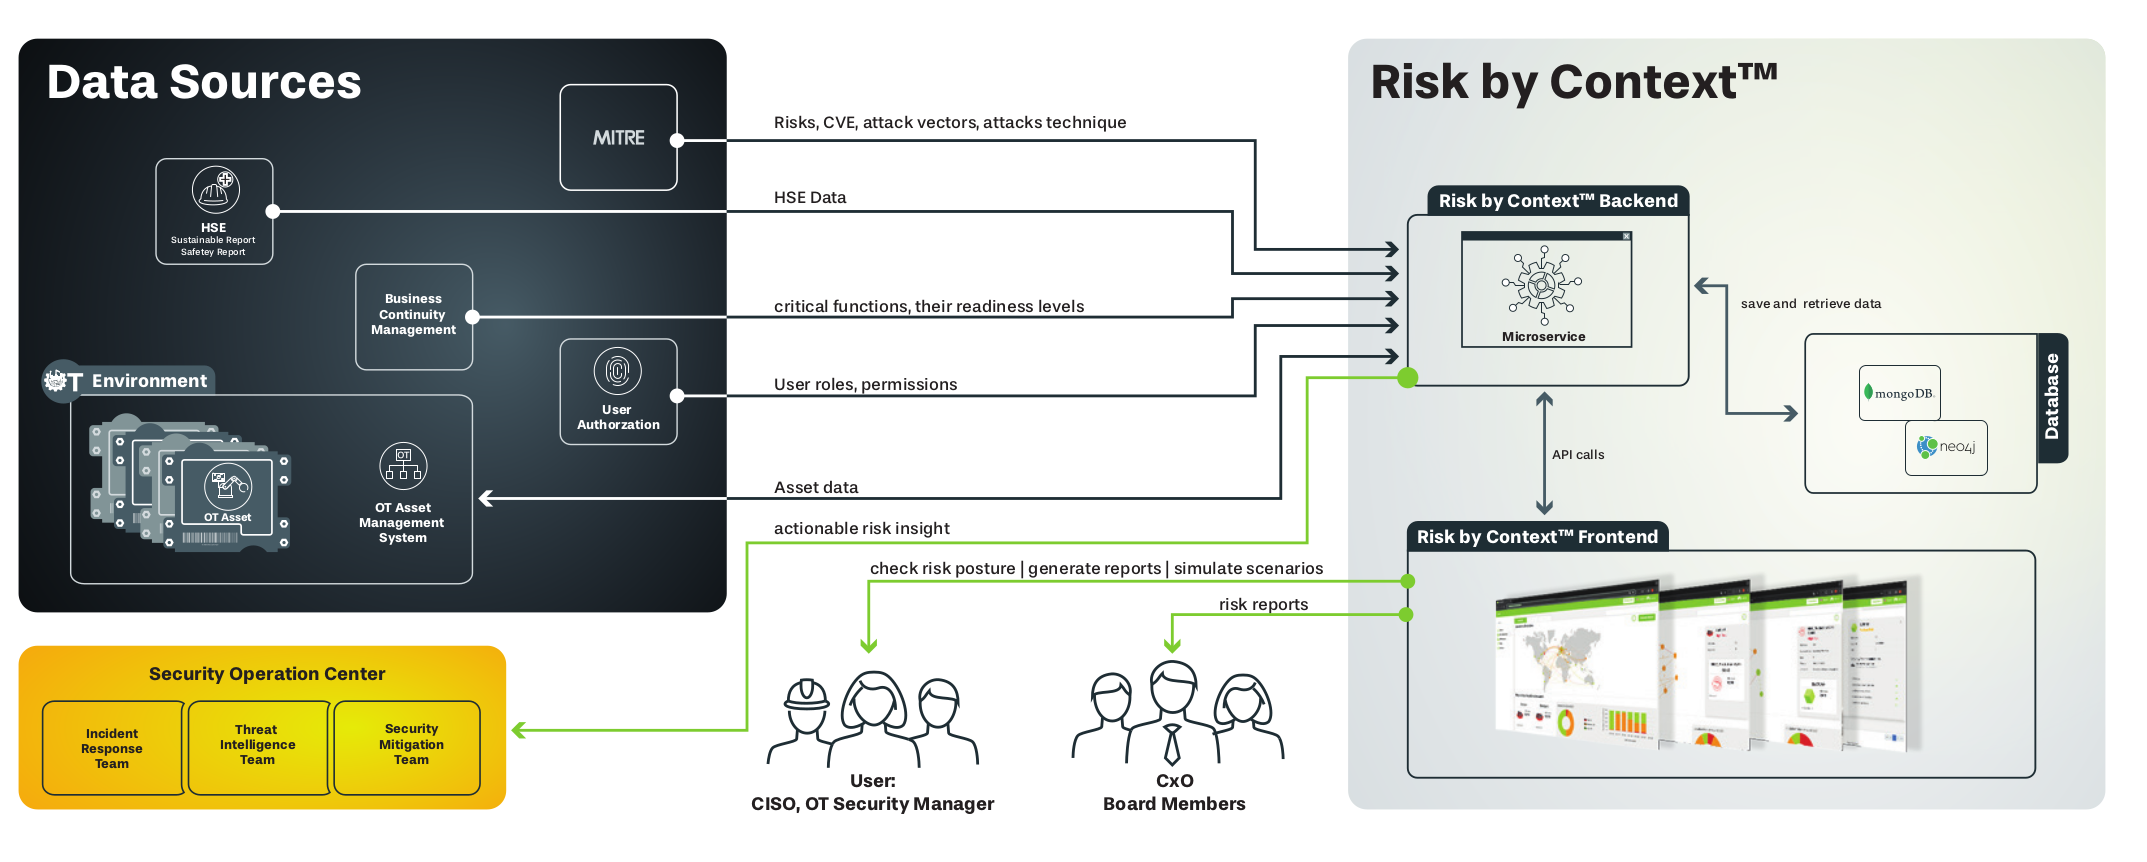
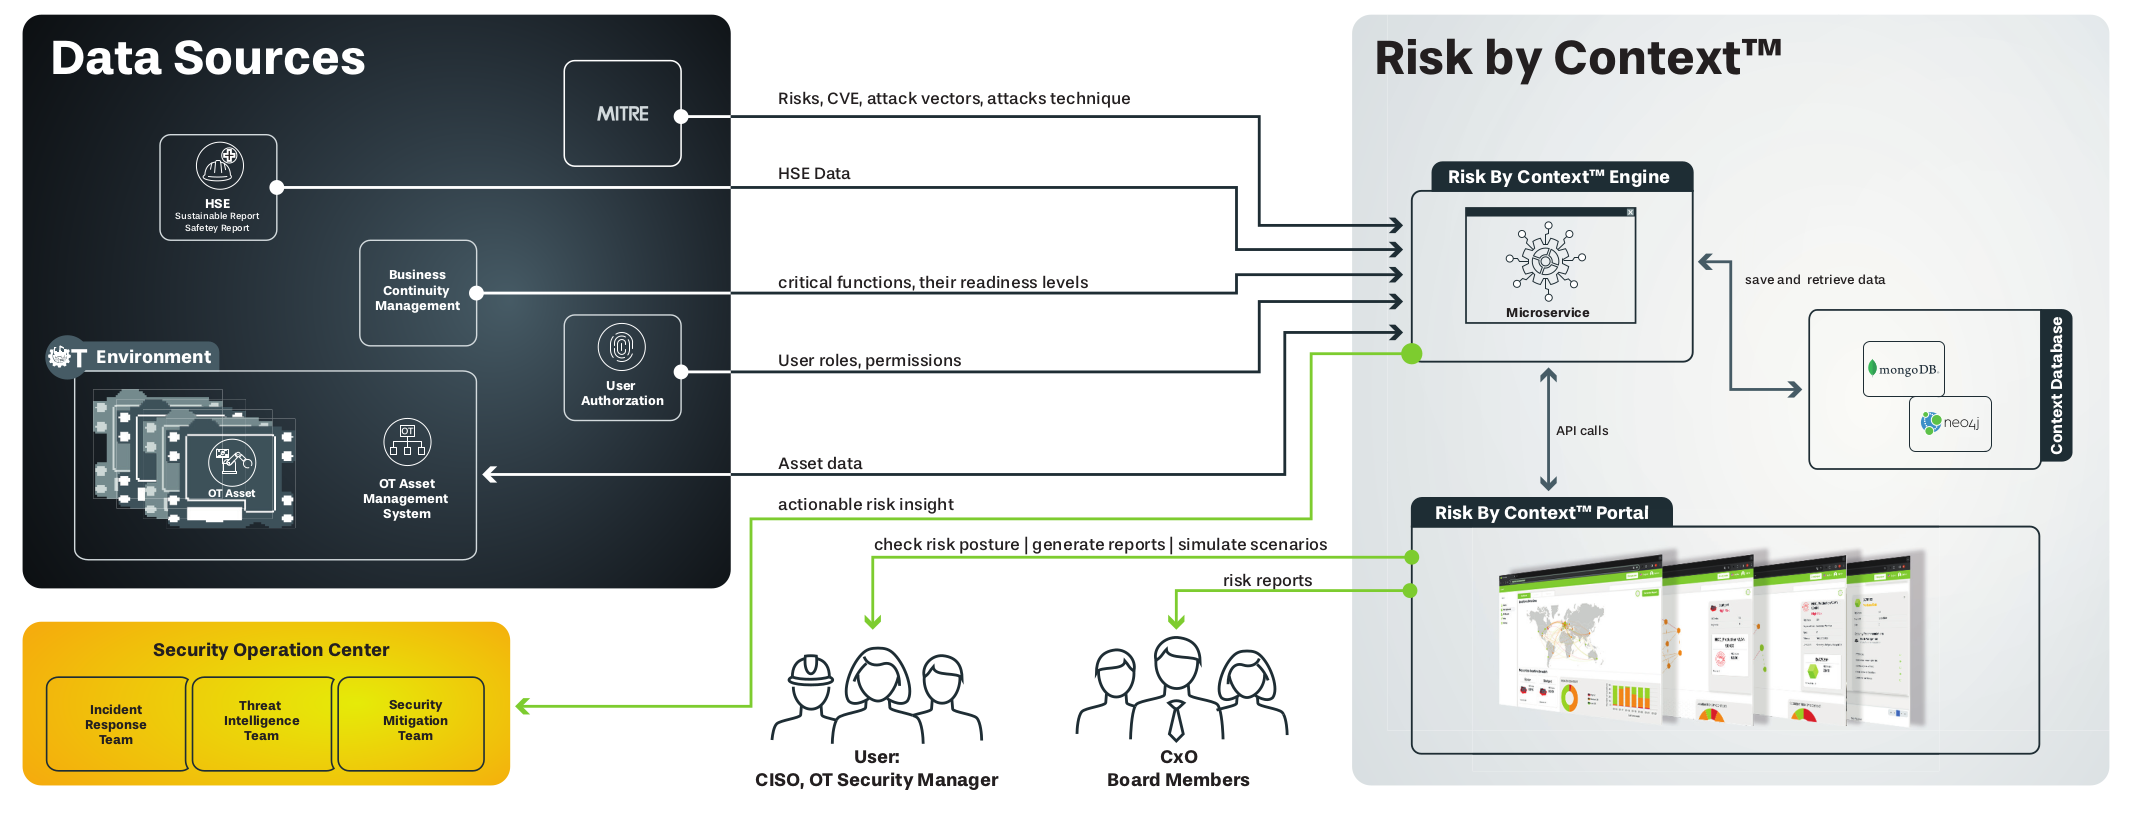
update architecture digaram

diff --git a/docs/locale/en/source/key-concepts/rbc-model.rst b/docs/locale/en/source/key-concepts/rbc-model.rst
@@ -10,10 +10,10 @@ explain its components. Some relevant concepts and keywords are also mentioned b
         :width: 800pt
         :align: center
 
-Risk by Context™ Frontend
+Risk by Context™ Portal
 -------------------------
 
-The Risk by Context™ frontend, developed using TypeScript and the Angular framework, provides a powerful and 
+The Risk by Context™ Portal, developed using TypeScript and the Angular framework, provides a powerful and 
 intuitive interface for monitoring and managing OT cybersecurity risks. Designed to handle the 
 complexities of industrial environments, it offers an interactive dashboard that presents a 
 real-time risk posture of the entire OT infrastructure. Security teams can drill down into 
@@ -33,10 +33,10 @@ approach, Risk by Context™ transforms complex OT risk landscapes into actionab
 organizations to enhance cyber resilience, reduce downtime, and protect critical operations 
 effectively.
 
-Risk by Context™ Backend
+Risk by Context™ Engine
 -------------------------
 
-The Risk by Context™ backend, built in C# using the .NET framework, is a high-performance, microservices-based 
+The Risk by Context™ Engine, built in C# using the .NET framework, is a high-performance, microservices-based 
 system designed for scalable and efficient OT risk management. It provides a comprehensive set of 
 REST APIs that collect contextual data from the OT environment, including locations, network segments,
 and devices. This data is then processed to construct a cybersecurity knowledge graph, mapping the 
@@ -44,33 +44,33 @@ relationships between assets, threats, and vulnerabilities to provide a context-
 
 At the core of the system is the RBC-Index, a dynamic, multi-dimensional risk score that continuously
 evaluates cybersecurity risks at location, segment, and device levels. By leveraging real-time and
-historical data, the backend ensures adaptive risk prioritization, helping organizations focus on
+historical data, the Engine ensures adaptive risk prioritization, helping organizations focus on
 the most critical threats. Additionally, it offers customized risk reports via dedicated APIs, 
 tailored for different roles, including C-level executives, managers, security engineers, and 
 risk analysts.
 
-Designed with a microservices architecture, the backend ensures high availability, scalability, 
+Designed with a microservices architecture, the Engine ensures high availability, scalability, 
 and fault tolerance, allowing seamless integration with threat intelligence feeds, SIEM platforms, 
 and asset management systems. All REST APIs are secured using JWT-based access tokens, ensuring 
 strong authentication and authorization. With its efficient data processing and real-time risk 
-analysis capabilities, the Risk by Context™ backend empowers organizations to proactively mitigate OT security 
+analysis capabilities, the Risk by Context™ Engine empowers organizations to proactively mitigate OT security 
 risks, strengthen cyber resilience, and enhance operational security without compromising performance.
 
 Risk by Context™ Database
 -------------------------
 The Risk by Context™ database architecture is designed to efficiently manage large-scale, context-rich OT data, 
-leveraging a hybrid approach with MongoDB (NoSQL) and Neo4j (graph database) to support the backend’s
+leveraging a hybrid approach with MongoDB (NoSQL) and Neo4j (graph database) to support the Engine’s
 microservices framework. Both databases run in Docker containers, ensuring high availability, 
 scalability, and fault tolerance while seamlessly integrating with Risk by Context™’s risk analysis engine.
 
 MongoDB serves as the primary storage for unstructured contextual data, capturing critical details 
-about locations, network segments, and OT devices. The backend processes and structures this raw
+about locations, network segments, and OT devices. The Engine processes and structures this raw
 data, transforming it into a cybersecurity knowledge graph stored in Neo4j. This graph-based model 
 enables deep relationship mapping, allowing security teams to visualize complex interdependencies, 
 attack pathways, and systemic vulnerabilities across the OT environment.
 
-By combining the flexibility of NoSQL with the analytical power of graph databases, Risk by Context™ ensures 
-fast query performance, real-time risk analysis, and dynamic threat prioritization. This 
+By combining the flexibility of NoSQL with the analytical power of graph databases, Risk by Context™ 
+ensures fast query performance, real-time risk analysis, and dynamic threat prioritization. This 
 context-aware, scalable data architecture enables security teams to gain deep, actionable 
 insights, strengthening proactive defense strategies and enhancing overall OT cyber resilience.
 
